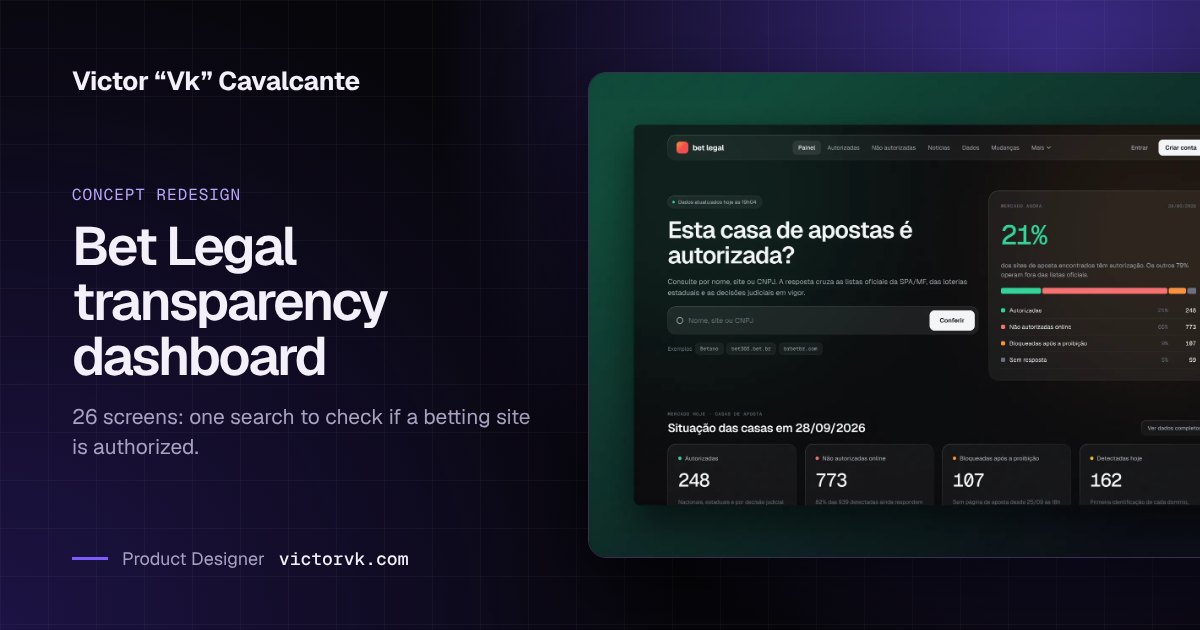
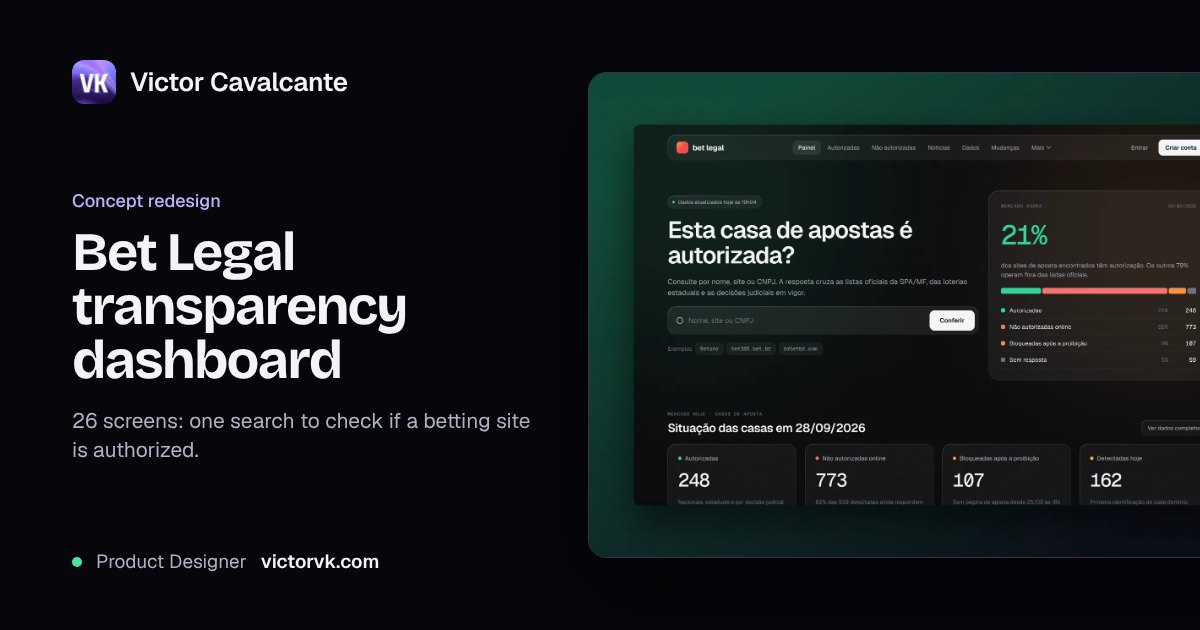
New social preview image

Changed region(s): [[0.0, 0.2714, 0.4625, 1.0], [0.4317, 0.0, 1.0, 0.2413], [0.0617, 0.0905, 0.3083, 0.181]]

diff --git a/public/index.html b/public/index.html
@@ -23,7 +23,7 @@
 <meta property="og:title" content="Victor Cavalcante (Vk) · Product Designer (UX/UI) &amp; Front-end Developer, Remote">
 <meta property="og:description" content="Product designer (UX/UI) and front-end developer from Brazil, open to remote roles. 7 years of experience, 6 in product design and UI/UX. Case studies, CV and design system.">
 <meta property="og:url" content="https://victorvk.com/">
-<meta property="og:image" content="https://victorvk.com/og/home-en.jpg?v=7d24b153">
+<meta property="og:image" content="https://victorvk.com/og/home-en.jpg?v=48818926">
 <meta property="og:image:width" content="1200">
 <meta property="og:image:height" content="630">
 <meta property="og:image:type" content="image/jpeg">
@@ -31,7 +31,7 @@
 <meta name="twitter:card" content="summary_large_image">
 <meta name="twitter:title" content="Victor Cavalcante (Vk) · Product Designer (UX/UI) &amp; Front-end Developer, Remote">
 <meta name="twitter:description" content="Product designer (UX/UI) and front-end developer from Brazil, open to remote roles. 7 years of experience, 6 in product design and UI/UX. Case studies, CV and design system.">
-<meta name="twitter:image" content="https://victorvk.com/og/home-en.jpg?v=7d24b153">
+<meta name="twitter:image" content="https://victorvk.com/og/home-en.jpg?v=48818926">
 <link rel="icon" type="image/png" sizes="32x32" href="/favicon-32.png">
 <link rel="icon" type="image/png" sizes="64x64" href="/favicon-64.png">
 <link rel="apple-touch-icon" sizes="180x180" href="/apple-touch-icon.png">

diff --git a/public/pt/index.html b/public/pt/index.html
@@ -23,7 +23,7 @@
 <meta property="og:title" content="Victor Cavalcante (Vk) · Product Designer (UX/UI) &amp; Front-end Developer, remoto">
 <meta property="og:description" content="Product designer (UX/UI) e front-end developer no Brasil, aberto a vagas remotas. 7 anos de experiência, 6 em product design e UI/UX. Estudos de caso, CV e design system.">
 <meta property="og:url" content="https://victorvk.com/pt/">
-<meta property="og:image" content="https://victorvk.com/og/home-pt.jpg?v=8e86cc6d">
+<meta property="og:image" content="https://victorvk.com/og/home-pt.jpg?v=48818926">
 <meta property="og:image:width" content="1200">
 <meta property="og:image:height" content="630">
 <meta property="og:image:type" content="image/jpeg">
@@ -31,7 +31,7 @@
 <meta name="twitter:card" content="summary_large_image">
 <meta name="twitter:title" content="Victor Cavalcante (Vk) · Product Designer (UX/UI) &amp; Front-end Developer, remoto">
 <meta name="twitter:description" content="Product designer (UX/UI) e front-end developer no Brasil, aberto a vagas remotas. 7 anos de experiência, 6 em product design e UI/UX. Estudos de caso, CV e design system.">
-<meta name="twitter:image" content="https://victorvk.com/og/home-pt.jpg?v=8e86cc6d">
+<meta name="twitter:image" content="https://victorvk.com/og/home-pt.jpg?v=48818926">
 <link rel="icon" type="image/png" sizes="32x32" href="/favicon-32.png">
 <link rel="icon" type="image/png" sizes="64x64" href="/favicon-64.png">
 <link rel="apple-touch-icon" sizes="180x180" href="/apple-touch-icon.png">

diff --git a/public/pt/work/4play/index.html b/public/pt/work/4play/index.html
@@ -20,7 +20,7 @@
 <meta property="og:title" content="Plataforma 4Play: estudo de caso | Victor Cavalcante">
 <meta property="og:description" content="Home, cassino, cassino ao vivo, bônus, depósito, esportes, blog e verificação de localização de uma marca regulada, evoluídos em ciclos de pesquisa, dados…">
 <meta property="og:url" content="https://victorvk.com/pt/work/4play/">
-<meta property="og:image" content="https://victorvk.com/og/work-4play-pt.jpg?v=171242fc">
+<meta property="og:image" content="https://victorvk.com/og/work-4play-pt.jpg?v=3843c972">
 <meta property="og:image:width" content="1200">
 <meta property="og:image:height" content="630">
 <meta property="og:image:type" content="image/jpeg">
@@ -28,7 +28,7 @@
 <meta name="twitter:card" content="summary_large_image">
 <meta name="twitter:title" content="Plataforma 4Play: estudo de caso | Victor Cavalcante">
 <meta name="twitter:description" content="Home, cassino, cassino ao vivo, bônus, depósito, esportes, blog e verificação de localização de uma marca regulada, evoluídos em ciclos de pesquisa, dados…">
-<meta name="twitter:image" content="https://victorvk.com/og/work-4play-pt.jpg?v=171242fc">
+<meta name="twitter:image" content="https://victorvk.com/og/work-4play-pt.jpg?v=3843c972">
 <link rel="icon" type="image/png" sizes="32x32" href="/favicon-32.png">
 <link rel="icon" type="image/png" sizes="64x64" href="/favicon-64.png">
 <link rel="apple-touch-icon" sizes="180x180" href="/apple-touch-icon.png">

diff --git a/public/pt/work/crm/index.html b/public/pt/work/crm/index.html
@@ -20,7 +20,7 @@
 <meta property="og:title" content="Hub de fidelidade e gamificação | Victor Cavalcante">
 <meta property="og:description" content="Telas de fidelidade e gamificação para três marcas, construídas do zero como mais de 12 seções em template na plataforma de CRM: hub do clube, missões, loja…">
 <meta property="og:url" content="https://victorvk.com/pt/work/crm/">
-<meta property="og:image" content="https://victorvk.com/og/work-crm-pt.jpg?v=548670ff">
+<meta property="og:image" content="https://victorvk.com/og/work-crm-pt.jpg?v=9eab411f">
 <meta property="og:image:width" content="1200">
 <meta property="og:image:height" content="630">
 <meta property="og:image:type" content="image/jpeg">
@@ -28,7 +28,7 @@
 <meta name="twitter:card" content="summary_large_image">
 <meta name="twitter:title" content="Hub de fidelidade e gamificação | Victor Cavalcante">
 <meta name="twitter:description" content="Telas de fidelidade e gamificação para três marcas, construídas do zero como mais de 12 seções em template na plataforma de CRM: hub do clube, missões, loja…">
-<meta name="twitter:image" content="https://victorvk.com/og/work-crm-pt.jpg?v=548670ff">
+<meta name="twitter:image" content="https://victorvk.com/og/work-crm-pt.jpg?v=9eab411f">
 <link rel="icon" type="image/png" sizes="32x32" href="/favicon-32.png">
 <link rel="icon" type="image/png" sizes="64x64" href="/favicon-64.png">
 <link rel="apple-touch-icon" sizes="180x180" href="/apple-touch-icon.png">

diff --git a/public/pt/work/email/index.html b/public/pt/work/email/index.html
@@ -20,7 +20,7 @@
 <meta property="og:title" content="Email Builder multimarca: estudo de caso | Victor Cavalcante">
 <meta property="og:description" content="Uma ferramenta interna para o time de marketing montar e-mails na identidade de três marcas de consumo sem reescrever HTML a cada campanha. Projetei e…">
 <meta property="og:url" content="https://victorvk.com/pt/work/email/">
-<meta property="og:image" content="https://victorvk.com/og/work-email-pt.jpg?v=e0f79571">
+<meta property="og:image" content="https://victorvk.com/og/work-email-pt.jpg?v=20613092">
 <meta property="og:image:width" content="1200">
 <meta property="og:image:height" content="630">
 <meta property="og:image:type" content="image/jpeg">
@@ -28,7 +28,7 @@
 <meta name="twitter:card" content="summary_large_image">
 <meta name="twitter:title" content="Email Builder multimarca: estudo de caso | Victor Cavalcante">
 <meta name="twitter:description" content="Uma ferramenta interna para o time de marketing montar e-mails na identidade de três marcas de consumo sem reescrever HTML a cada campanha. Projetei e…">
-<meta name="twitter:image" content="https://victorvk.com/og/work-email-pt.jpg?v=e0f79571">
+<meta name="twitter:image" content="https://victorvk.com/og/work-email-pt.jpg?v=20613092">
 <link rel="icon" type="image/png" sizes="32x32" href="/favicon-32.png">
 <link rel="icon" type="image/png" sizes="64x64" href="/favicon-64.png">
 <link rel="apple-touch-icon" sizes="180x180" href="/apple-touch-icon.png">

diff --git a/public/pt/work/pagol/index.html b/public/pt/work/pagol/index.html
@@ -20,7 +20,7 @@
 <meta property="og:title" content="Plataforma Pagol: estudo de caso | Victor Cavalcante">
 <meta property="og:description" content="A Pagol usa o design system da 4Play, mas tem identidade e público próprios. Adaptei os componentes à marca, levei o esporte para um tema claro, coloquei…">
 <meta property="og:url" content="https://victorvk.com/pt/work/pagol/">
-<meta property="og:image" content="https://victorvk.com/og/work-pagol-pt.jpg?v=e2d3ad42">
+<meta property="og:image" content="https://victorvk.com/og/work-pagol-pt.jpg?v=9871984f">
 <meta property="og:image:width" content="1200">
 <meta property="og:image:height" content="630">
 <meta property="og:image:type" content="image/jpeg">
@@ -28,7 +28,7 @@
 <meta name="twitter:card" content="summary_large_image">
 <meta name="twitter:title" content="Plataforma Pagol: estudo de caso | Victor Cavalcante">
 <meta name="twitter:description" content="A Pagol usa o design system da 4Play, mas tem identidade e público próprios. Adaptei os componentes à marca, levei o esporte para um tema claro, coloquei…">
-<meta name="twitter:image" content="https://victorvk.com/og/work-pagol-pt.jpg?v=e2d3ad42">
+<meta name="twitter:image" content="https://victorvk.com/og/work-pagol-pt.jpg?v=9871984f">
 <link rel="icon" type="image/png" sizes="32x32" href="/favicon-32.png">
 <link rel="icon" type="image/png" sizes="64x64" href="/favicon-64.png">
 <link rel="apple-touch-icon" sizes="180x180" href="/apple-touch-icon.png">

diff --git a/public/work/crm/index.html b/public/work/crm/index.html
@@ -20,7 +20,7 @@
 <meta property="og:title" content="Loyalty and gamification hub: case study | Victor Cavalcante">
 <meta property="og:description" content="Loyalty and gamification screens for three brands, built from scratch as 12+ templated sections on the CRM platform: club hub, missions, reward store and…">
 <meta property="og:url" content="https://victorvk.com/work/crm/">
-<meta property="og:image" content="https://victorvk.com/og/work-crm-en.jpg?v=ff0344fe">
+<meta property="og:image" content="https://victorvk.com/og/work-crm-en.jpg?v=8b0840db">
 <meta property="og:image:width" content="1200">
 <meta property="og:image:height" content="630">
 <meta property="og:image:type" content="image/jpeg">
@@ -28,7 +28,7 @@
 <meta name="twitter:card" content="summary_large_image">
 <meta name="twitter:title" content="Loyalty and gamification hub: case study | Victor Cavalcante">
 <meta name="twitter:description" content="Loyalty and gamification screens for three brands, built from scratch as 12+ templated sections on the CRM platform: club hub, missions, reward store and…">
-<meta name="twitter:image" content="https://victorvk.com/og/work-crm-en.jpg?v=ff0344fe">
+<meta name="twitter:image" content="https://victorvk.com/og/work-crm-en.jpg?v=8b0840db">
 <link rel="icon" type="image/png" sizes="32x32" href="/favicon-32.png">
 <link rel="icon" type="image/png" sizes="64x64" href="/favicon-64.png">
 <link rel="apple-touch-icon" sizes="180x180" href="/apple-touch-icon.png">

diff --git a/public/work/email/index.html b/public/work/email/index.html
@@ -20,7 +20,7 @@
 <meta property="og:title" content="Multi-brand Email Builder: case study | Victor Cavalcante">
 <meta property="og:description" content="An internal tool that lets the marketing team build on-brand emails for three consumer brands without rewriting HTML each time. I designed and coded it.">
 <meta property="og:url" content="https://victorvk.com/work/email/">
-<meta property="og:image" content="https://victorvk.com/og/work-email-en.jpg?v=4d7b5f11">
+<meta property="og:image" content="https://victorvk.com/og/work-email-en.jpg?v=ba106632">
 <meta property="og:image:width" content="1200">
 <meta property="og:image:height" content="630">
 <meta property="og:image:type" content="image/jpeg">
@@ -28,7 +28,7 @@
 <meta name="twitter:card" content="summary_large_image">
 <meta name="twitter:title" content="Multi-brand Email Builder: case study | Victor Cavalcante">
 <meta name="twitter:description" content="An internal tool that lets the marketing team build on-brand emails for three consumer brands without rewriting HTML each time. I designed and coded it.">
-<meta name="twitter:image" content="https://victorvk.com/og/work-email-en.jpg?v=4d7b5f11">
+<meta name="twitter:image" content="https://victorvk.com/og/work-email-en.jpg?v=ba106632">
 <link rel="icon" type="image/png" sizes="32x32" href="/favicon-32.png">
 <link rel="icon" type="image/png" sizes="64x64" href="/favicon-64.png">
 <link rel="apple-touch-icon" sizes="180x180" href="/apple-touch-icon.png">

diff --git a/public/pt/work/orra/index.html b/public/pt/work/orra/index.html
@@ -20,7 +20,7 @@
 <meta property="og:title" content="Orra Ring: estudo de caso | Victor Cavalcante">
 <meta property="og:description" content="Orra é um anel inteligente que eu inventei para planejar um lançamento inteiro: para quem é, o que a página precisa responder, como a história em 3D se move…">
 <meta property="og:url" content="https://victorvk.com/pt/work/orra/">
-<meta property="og:image" content="https://victorvk.com/og/work-orra-pt.jpg?v=67fcb42f">
+<meta property="og:image" content="https://victorvk.com/og/work-orra-pt.jpg?v=24cac495">
 <meta property="og:image:width" content="1200">
 <meta property="og:image:height" content="630">
 <meta property="og:image:type" content="image/jpeg">
@@ -28,7 +28,7 @@
 <meta name="twitter:card" content="summary_large_image">
 <meta name="twitter:title" content="Orra Ring: estudo de caso | Victor Cavalcante">
 <meta name="twitter:description" content="Orra é um anel inteligente que eu inventei para planejar um lançamento inteiro: para quem é, o que a página precisa responder, como a história em 3D se move…">
-<meta name="twitter:image" content="https://victorvk.com/og/work-orra-pt.jpg?v=67fcb42f">
+<meta name="twitter:image" content="https://victorvk.com/og/work-orra-pt.jpg?v=24cac495">
 <link rel="icon" type="image/png" sizes="32x32" href="/favicon-32.png">
 <link rel="icon" type="image/png" sizes="64x64" href="/favicon-64.png">
 <link rel="apple-touch-icon" sizes="180x180" href="/apple-touch-icon.png">

diff --git a/public/pt/work/123/index.html b/public/pt/work/123/index.html
@@ -20,7 +20,7 @@
 <meta property="og:title" content="123 Bet mobile: estudo de caso | Victor Cavalcante">
 <meta property="og:description" content="Um produto mobile first para a 123 Bet com mais de 60 telas: home, cassino, cassino ao vivo, cadastro, depósito e saque por cartão, pagamento instantâneo e…">
 <meta property="og:url" content="https://victorvk.com/pt/work/123/">
-<meta property="og:image" content="https://victorvk.com/og/work-123-pt.jpg?v=8849679b">
+<meta property="og:image" content="https://victorvk.com/og/work-123-pt.jpg?v=31436e20">
 <meta property="og:image:width" content="1200">
 <meta property="og:image:height" content="630">
 <meta property="og:image:type" content="image/jpeg">
@@ -28,7 +28,7 @@
 <meta name="twitter:card" content="summary_large_image">
 <meta name="twitter:title" content="123 Bet mobile: estudo de caso | Victor Cavalcante">
 <meta name="twitter:description" content="Um produto mobile first para a 123 Bet com mais de 60 telas: home, cassino, cassino ao vivo, cadastro, depósito e saque por cartão, pagamento instantâneo e…">
-<meta name="twitter:image" content="https://victorvk.com/og/work-123-pt.jpg?v=8849679b">
+<meta name="twitter:image" content="https://victorvk.com/og/work-123-pt.jpg?v=31436e20">
 <link rel="icon" type="image/png" sizes="32x32" href="/favicon-32.png">
 <link rel="icon" type="image/png" sizes="64x64" href="/favicon-64.png">
 <link rel="apple-touch-icon" sizes="180x180" href="/apple-touch-icon.png">

diff --git a/public/pt/work/tinker/index.html b/public/pt/work/tinker/index.html
@@ -20,7 +20,7 @@
 <meta property="og:title" content="Tinker: estudo de caso | Victor Cavalcante">
 <meta property="og:description" content="Tinker é um portátil que eu inventei para quem tem os jogos favoritos feitos por estúdios pequenos. A página precisava fazer um produto que ninguém pode…">
 <meta property="og:url" content="https://victorvk.com/pt/work/tinker/">
-<meta property="og:image" content="https://victorvk.com/og/work-tinker-pt.jpg?v=c23a33e8">
+<meta property="og:image" content="https://victorvk.com/og/work-tinker-pt.jpg?v=5e4fad76">
 <meta property="og:image:width" content="1200">
 <meta property="og:image:height" content="630">
 <meta property="og:image:type" content="image/jpeg">
@@ -28,7 +28,7 @@
 <meta name="twitter:card" content="summary_large_image">
 <meta name="twitter:title" content="Tinker: estudo de caso | Victor Cavalcante">
 <meta name="twitter:description" content="Tinker é um portátil que eu inventei para quem tem os jogos favoritos feitos por estúdios pequenos. A página precisava fazer um produto que ninguém pode…">
-<meta name="twitter:image" content="https://victorvk.com/og/work-tinker-pt.jpg?v=c23a33e8">
+<meta name="twitter:image" content="https://victorvk.com/og/work-tinker-pt.jpg?v=5e4fad76">
 <link rel="icon" type="image/png" sizes="32x32" href="/favicon-32.png">
 <link rel="icon" type="image/png" sizes="64x64" href="/favicon-64.png">
 <link rel="apple-touch-icon" sizes="180x180" href="/apple-touch-icon.png">

diff --git a/public/work/pagol/index.html b/public/work/pagol/index.html
@@ -20,7 +20,7 @@
 <meta property="og:title" content="Pagol platform: case study | Victor Cavalcante">
 <meta property="og:description" content="Pagol shares the 4Play design system but has its own identity and audience. I adapted the components to the brand, moved sports to a light theme, brought…">
 <meta property="og:url" content="https://victorvk.com/work/pagol/">
-<meta property="og:image" content="https://victorvk.com/og/work-pagol-en.jpg?v=c459c085">
+<meta property="og:image" content="https://victorvk.com/og/work-pagol-en.jpg?v=68f794ab">
 <meta property="og:image:width" content="1200">
 <meta property="og:image:height" content="630">
 <meta property="og:image:type" content="image/jpeg">
@@ -28,7 +28,7 @@
 <meta name="twitter:card" content="summary_large_image">
 <meta name="twitter:title" content="Pagol platform: case study | Victor Cavalcante">
 <meta name="twitter:description" content="Pagol shares the 4Play design system but has its own identity and audience. I adapted the components to the brand, moved sports to a light theme, brought…">
-<meta name="twitter:image" content="https://victorvk.com/og/work-pagol-en.jpg?v=c459c085">
+<meta name="twitter:image" content="https://victorvk.com/og/work-pagol-en.jpg?v=68f794ab">
 <link rel="icon" type="image/png" sizes="32x32" href="/favicon-32.png">
 <link rel="icon" type="image/png" sizes="64x64" href="/favicon-64.png">
 <link rel="apple-touch-icon" sizes="180x180" href="/apple-touch-icon.png">
